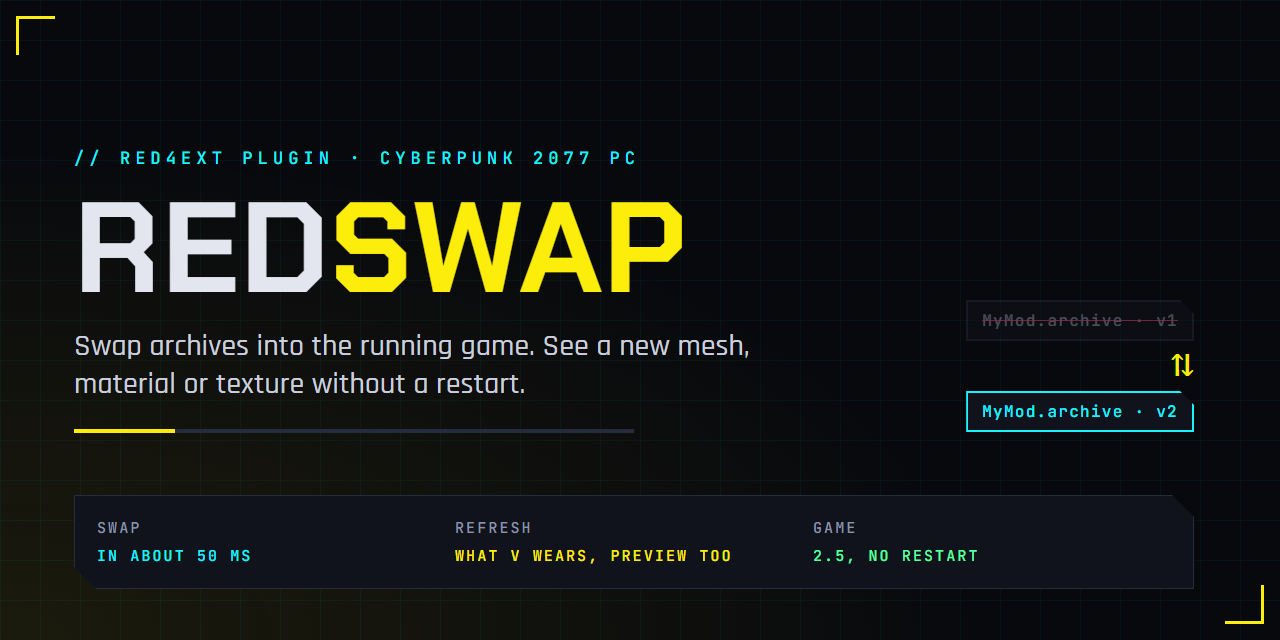
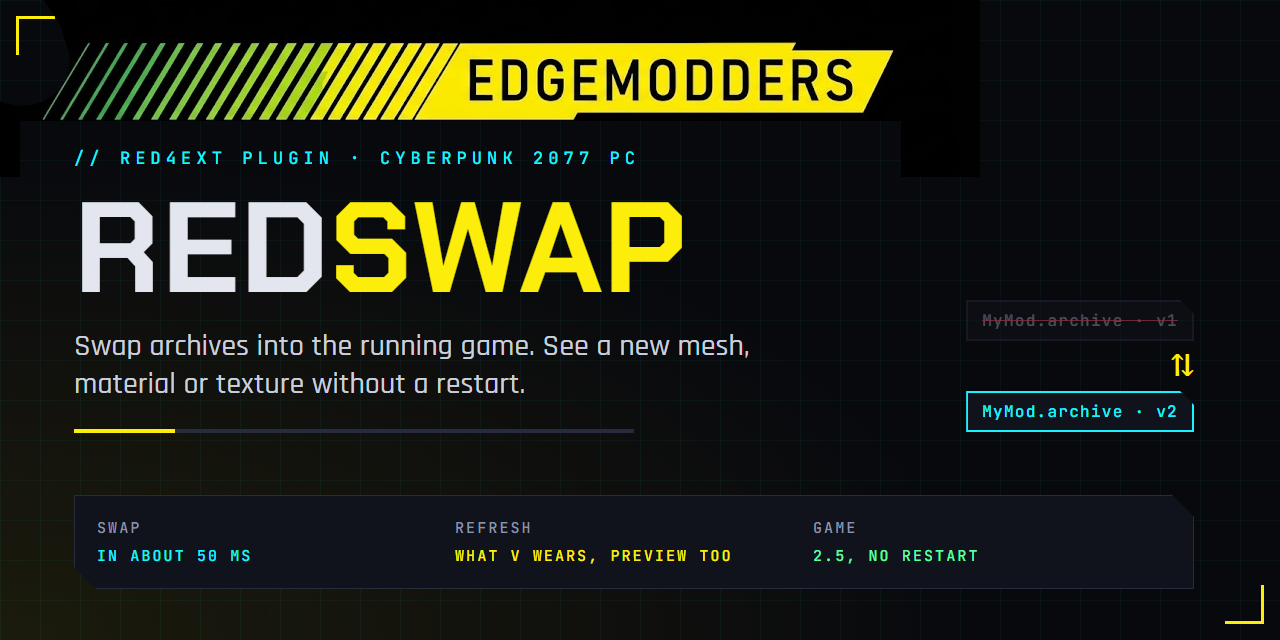
Release REDnode 0.41.0: changelog section; REDnode's Nexus description pulled
REDnode 0.41.0 goes out with REDswap 1.0.0 (its first release, to its own
Nexus page) and Sound Tools 0.1.1. The owner's Agent Pairing Security
section on REDnode's page is pulled into nexus/description.bbcode, and
REDswap's nexus.png has the owner's EDGEmodders header.

Changed region(s): [[0.0312, 0.0625, 0.7188, 0.1875]]

diff --git a/docs/changelog.md b/docs/changelog.md
@@ -11,6 +11,8 @@ How to keep it:
 
 ## Unreleased
 
+## 0.41.0 (2026-10-27)
+
 **New**
 
 - REDswap, a plugin installed with REDnode (`red4ext/plugins/REDswap`), swaps archives into the running game on game 2.5, so `archives.reload` and the MCP tool `archives_reload` no longer need RED Hot Tools, which has no 2.5 build. Its swap is ported from RED Hot Tools (MIT, by psiberx). The answer says `via: "redswap"`. RED Hot Tools is still used when REDswap is not loaded. REDswap has its own version (1.0.0), changelog, docs page (https://edgemodders.github.io/REDnode/redswap.html) and Nexus page (https://www.nexusmods.com/cyberpunk2077/mods/36172), and its own zip beside REDnode's in each release.
